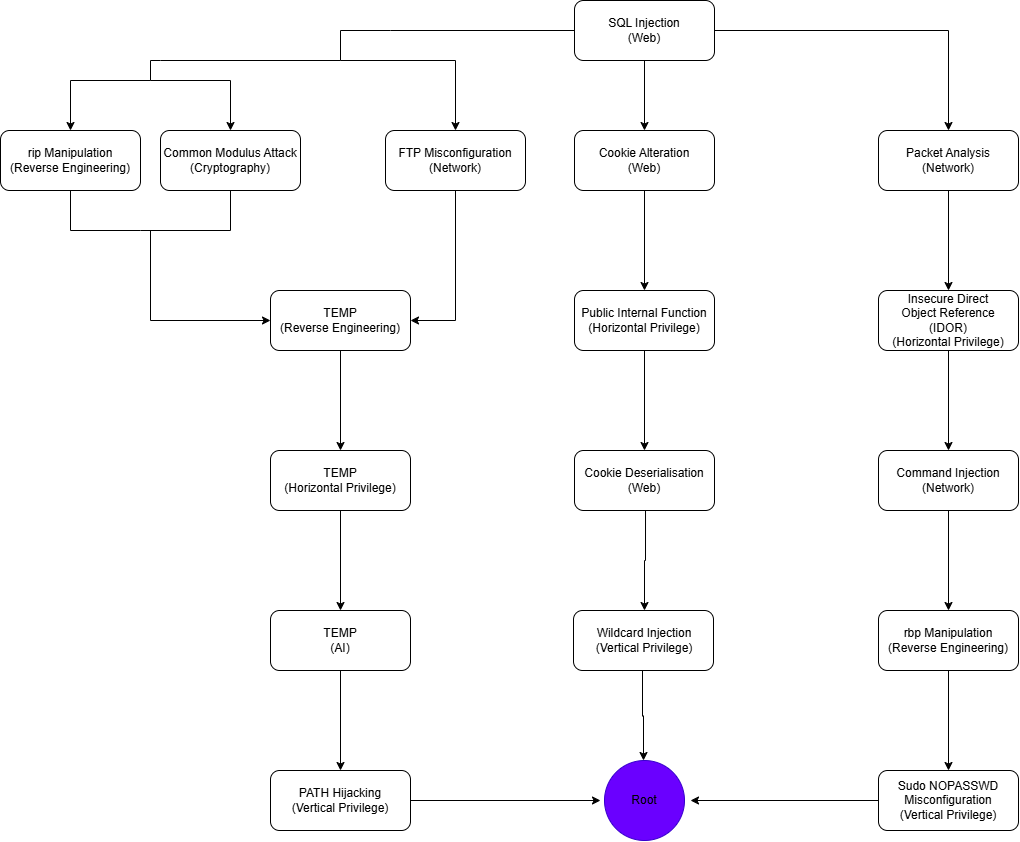
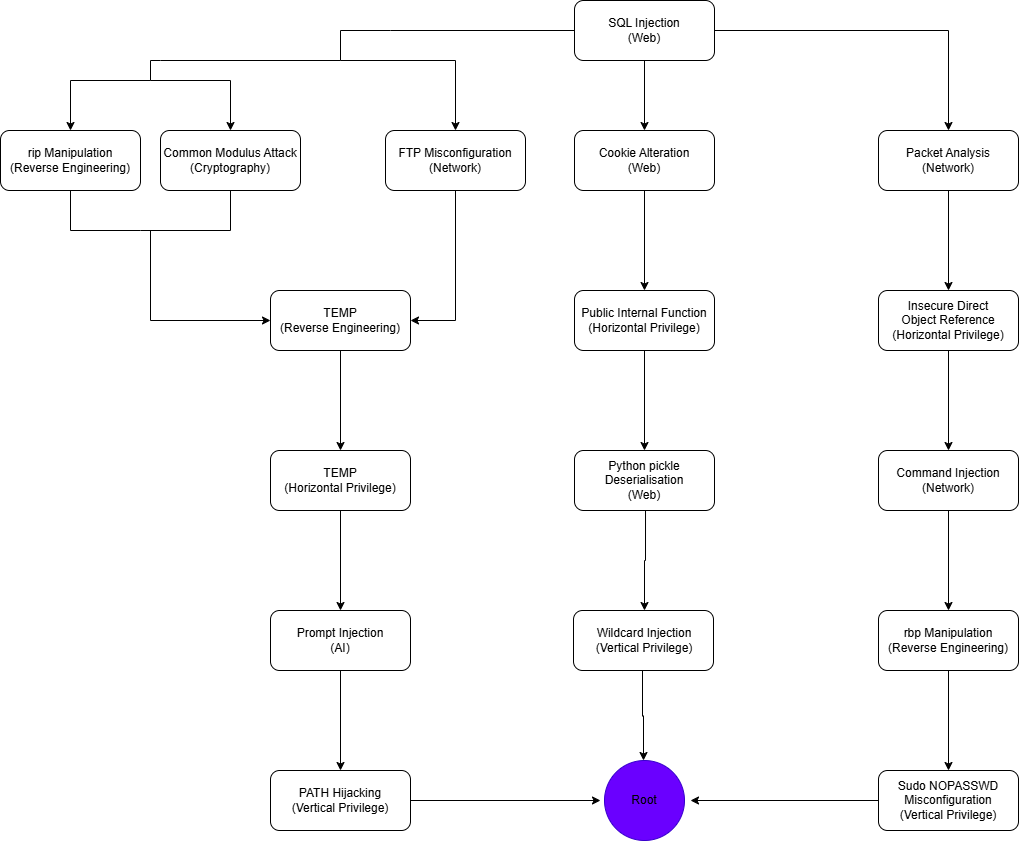
Updated the exploit map

Changed region(s): [[0.8814, 0.3397, 1.0, 0.4323], [0.5775, 0.5249, 0.699, 0.5867], [0.3039, 0.7411, 0.3647, 0.772]]

diff --git a/report.tex b/report.tex
@@ -517,7 +517,7 @@
 
     \vspace{1em}
 
-    \subsection*{AI (Zarin)}
+    \subsection*{Prompt Injection (Zarin)}
 
     \vspace{1em}
 
@@ -821,11 +821,11 @@
 
     \vspace{1em}
 
-    \subsection*{Web (Senaya)}
+    \subsection*{Python \texttt{pickle} Deserialisation (Senaya)}
 
     \vspace{1em}
 
-    \subsection*{Vertical Privilege (Senaya)}
+    \subsection*{Wildcard Injection (Senaya)}
 
     \newpage
 
